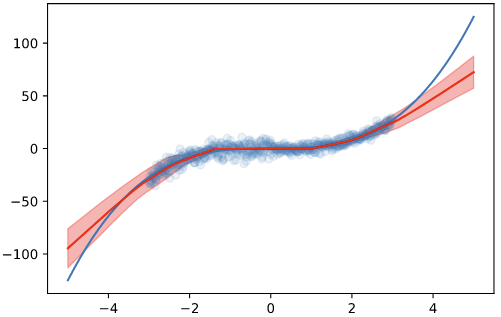
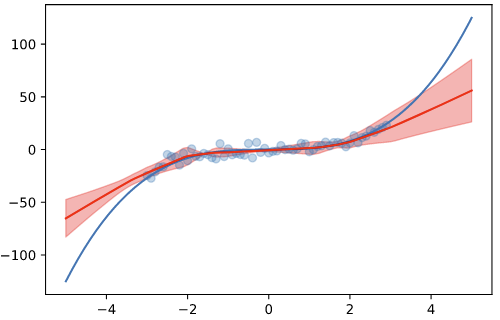
picture added

Changed region(s): [[0.0, 0.0, 0.99, 0.9937], [0.9, 0.0852, 0.93, 0.1703]]

diff --git a/_sass/base/backup_var.scss b/_sass/base/backup_var.scss
@@ -1,8 +1,8 @@
 // Google Fonts
-@import url(//fonts.googleapis.com/css?family=Consolas:400,700,300|Roboto+Slab:400,700,300|Roboto:400,700,300|Open+Sans:300italic,400italic,600italic,700italic,800italic,400,800,700,600,300);
+@import url(//fonts.googleapis.com/css?family=Roboto+Slab:400,700,300|Roboto:400,700,300|Open+Sans:300italic,400italic,600italic,700italic,800italic,400,800,700,600,300);
 
 // Typography
-$base-font-family: "Consolas", "Open Sans", "Helvetica Neue", "Helvetica", "Roboto", "Arial", sans-serif; // $helvetica;
+$base-font-family: "Open Sans", "Helvetica Neue", "Helvetica", "Roboto", "Arial", sans-serif; // $helvetica;
 $heading-font-family: "Roboto Slab", "Helvetica Neue", "Helvetica", "Arial", sans-serif; // $base-font-family;
 
 // Font Sizes

diff --git a/_posts/2020-12-06-deep_ensemble.md b/_posts/2020-12-06-deep_ensemble.md
@@ -12,13 +12,12 @@ tags: deeplearning
 
 
 # Overview
-신경망(Neural Networks)는 학습을 수행함에 따라 우리가 원하는 결과를 다양한 형태로 반환합니다. MNIST의 숫자 이미지 분류 문제라면 각 숫자일 확률값을 내뱉을 것이고, 몸무게에 따른 키의 예측 문제라면 예측되는 키를 내뱉을 것입니다. 하지만 신경망에 의한 예측은 기본적으로 불확실합니다. 적합된 모델과 파라미터를 가지고 아웃풋의 확률 분포를 최대한 모사하지만 그 값이 정확히 우리가 원하는 값과 일치할 수는 없습니다. 불확실성은 현실적으로 모델과 공존하는 그림자와 같은 존재이기에 얼마나 정확히 그것을 측정할 수 있는지가 중요합니다. 자율주행을 예로 들면, 현재 앞에 보이는 것이 차가 지나갈 수 있는 도로인지에 대한 예측 결과에 대해 불확실성이 높게 측정된다면, 운전자에게 운전 주체를 전환하는 기능이 잘 작동할 수 있고, 이는 사고로 이어질 가능성을 최소화 하는 데에 좋은 방안이 될 수 있습니다. 이러한 관점에서 calibration이 있고, 불확실성(uncertainty)를 측정하기 위한 Bayesian NNs 등의 모델 또한 존재합니다. 하지만 본 논문에서 Bayesian NNs의 단점으로 복잡도가 높고, 사전확률분포에 대한 의존도가 높다는 점 등을 꼽습니다. 그러한 면에서 저자들은 non-Bayesian NNs이자 좀 더 general한 불확실성 측정 모델을 고민했다고 합니다.
+신경망(Neural Networks)는 학습을 수행함에 따라 우리가 원하는 결과를 다양한 형태로 반환합니다. MNIST의 숫자 이미지 분류 문제라면 각 숫자일 확률값을 내뱉을 것이고, 몸무게에 따른 키의 예측 문제라면 예측되는 키를 내뱉을 것입니다. 하지만 신경망에 의한 예측은 기본적으로 불확실합니다. 적합된 모델과 파라미터를 가지고 아웃풋의 확률 분포를 최대한 모사하지만 그 값이 정확히 우리가 원하는 값과 일치할 수는 없습니다.<br>
+
+불확실성은 현실적으로 모델과 공존하는 그림자와 같은 존재이기에 얼마나 정확히 그것을 측정할 수 있는지가 중요합니다. 자율주행을 예로 들면, 현재 앞에 보이는 것이 차가 지나갈 수 있는 도로인지에 대한 예측 결과에 대해 불확실성이 높게 측정된다면, 운전자에게 운전 주체를 전환하는 기능이 잘 작동할 수 있고, 이는 사고로 이어질 가능성을 최소화 하는 데에 좋은 방안이 될 수 있습니다. 이러한 관점에서 calibration이 있고, 불확실성(uncertainty)를 측정하기 위한 Bayesian NNs 등의 모델 또한 존재합니다. 하지만 본 논문에서 Bayesian NNs의 단점으로 복잡도가 높고, 사전확률분포에 대한 의존도가 높다는 점 등을 꼽습니다. 그러한 면에서 저자들은 non-Bayesian NNs이자 좀 더 general한 불확실성 측정 모델을 고민했다고 합니다.
 
 # Bayesian NNs
-간단하게 말해, 신경망의 각 hidden layer의 결과값을 deterministic한 값이 아닌 stochastic, probabilistic한 값을 뱉도록 하는 방법론입니다. MC dropout 등이 대표적입니다.
-https://sanjaykthakur.com/2018/12/05/the-very-basics-of-bayesian-neural-networks/<br>
-
-
+간단하게 말해, 신경망의 각 hidden layer의 결과값을 deterministic한 값이 아닌 stochastic, probabilistic한 값을 뱉도록 하는 방법론입니다. MC dropout 등이 대표적입니다.<br>
 
 # Deep Ensembles
 우선 $$N$$개의 i.i.d.한 데이터 $$D=\{x_n, y_n\}^N_{n=1}$$를 포함하는 데이터셋 $$D$$를 생각해 보면, 분류 문제에 있어서 레이블 $$y$$는 $$K$$개의 값 {1, 2, ..., k} 중 하나의 예측값을 갖게 됩니다. 만일 Regression 문제라면 레이블 $$y$$는 실수 예측값이 됩니다. 이 때 파라미터 $$\theta$$를 갖는 신경망 모형을 적합하면 이는 레이블에 대한 y값의 확률적 예측 분포, 즉 $$p_\theta(y|x)$$를 모델링하게 됩니다. 이러한 상황에서 저자들은 아래와 같은 세 가지를 제시합니다.
@@ -26,19 +25,27 @@ https://sanjaykthakur.com/2018/12/05/the-very-basics-of-bayesian-neural-networks
 > (2) 적대적 학습(adversarial training)을 통해 예측의 분포를 스무딩한다.<br>
 > (3) 앙상블 모형을 학습한다.<br><br>
 
-## Proper Scoring Rules
+### (1) Proper Scoring Rules
 앞서 말씀드렸듯이 불확실성을 측정하는 방법론 또한 정교해야 합니다. 이 때 필요한 scoring rule은 예측 분포인 $$p_\theta(y\mid x)$$에 대해 점수를 부여하게 되고, 더욱 calibrated된 예측이 그렇지 않은 예측에 비해 높은 점수를 받게 합니다. 만일 score를 $$S(p_\theta, (y, x))$$로 표현한다면 이는 어떠한 사건 $$y\mid x \sim q(y\mid x)$$에 관한 예측 분포 $$p_\theta(y\mid x)$$를 평가하는 함수가 됩니다. 그 기댓값은 $$S(p_\theta, q)$$가 되고, 이 때 "좋은 scoring rule'이 되려면 오직 $$p_\theta(y\mid x) = q(y\mid x)$$일 때 등식이 성립하는 $$S(p_\theta,q)\leq$$의 부등식을 만족해야 합니다. 이 때 비로소 loss인 $$L(\theta)=-S(p_\theta,q)$$를 최소화 함으로써 예측의 불확실성을 보정(calibration)할 수 있는 신경망을 학습할 수 있게 됩니다.<br>
 
 하지만 사실 우리가 보통 신경망 모델을 학습할 때 사용하는 손실함수가 proper scoring rule이 됩니다. 예를 들어 흔히 쓰이는 maxmizing log likelihood를 살펴보면 Gibbs 부등식에 의해 $$E_{q(x)}logq(y\mid x)logp_{\theta}(y\mid x)\leq E_{q(x)}logq(y\mid x)logq(y\mid x)(y\mid x)$$가 성립하기 때문에 우리가 사용하고자 하는 scoring rule의 하나가 될 수 있습니다.<br>
 
+실험에서 보여드리겠지만, 본 논문에서 목적을 위해 선택하는 손실함수는 Negative Log-likelihood(NLL)입니다. 흔히 회귀에서 사용하는 MSE의 경우 predictive uncertatinty(variance)를 구할 수 없는 scoring rule인 반면, NLL은 
+
+### (2) Adversarial Training
+적대적 훈련(adversarial training)은 간단하게 말하면 기존에 예측/분류되던 결과와 다른 결과를 뱉도록 하는 $$x'$$를 훈련 데이터에 포함시켜 학습시키는 것을 의미합니다. 기존보다 loss를 크게 하는 방향으로 학습이 진행되므로 예측 분포가 좀 더 넓은 공간에 위치하게 되는 smoothing 효과를 가져오고, 이는 곧 모델이 더욱 robust하게 됨을 의미합니다. 본 논문에서는 이러한 adversarial training을 사용함으로써 전반적으로 더 나은 uncertainty prediction을 이끌어 냈다고 합니다.
+
+### (3) Ensemble
+흔히 아는 Random Forest 모형이 앙상블 기법의 대표적인 모형이라고 할 수 있습니다. 사실 요즘 각종 대회에서 수상하는 모형은 거의 다 앙상블 모형이라고 해도 과언이 아닐 만큼 많이 쓰이기도 합니다. 본 논문에서는 앙상블 중에서도 randomization 기법을 사용했는데, bagging이 대표적입니다. Bagging은 bootstrapping을 통해 다양한 학습 데이터셋을 생성하여 각각에 대한 예측을 수행한 후 그들을 평균내는 방법을 사용합니다. 다른 방법론인 Booosting은 약한 모델(weak model)을 여럿 합침으로써 예측력을 대폭 높인다고 할 수 있습니다. 즉 앙상블 기법을 통해 기존 NN 모델의 예측, 분류 등의 성능을 높일 수 있는 것은 모두 아는 사실이지만, 저자들은 이러한 앙상블 기법이 양질의 uncertainty를 측정하는 데에도 도움이 된다고 설명합니다.
+
+---
 
 # Experiments
 
-## With MSE Loss
+### (1) With MSE Loss
 우선 MSE Loss를 사용하는 기본적인 신경망은 아래와 같이 구현할 수 있습니다.<br>
 
 ```python
-
 class SingleNet(nn.Module):
     def __init__(self):
         super(SingleNet, self).__init__()
@@ -60,7 +67,6 @@ class SingleNet(nn.Module):
         x = self.layer2(x)
         return x
 
-
 singlenet = SingleNet()
 mse_loss = nn.MSELoss()
 optimizer = optim.Adam(singlenet.parameters(), lr = 0.1)
@@ -69,9 +75,9 @@ optimizer = optim.Adam(singlenet.parameters(), lr = 0.1)
 
 ![image](/assets/assets_post/2020-12-06-deep_ensemble/singlenn_result1.png)<br>
 
-플롯에서 보이듯이, 학습 데이터가 모여있는 곳에서는 실제 ground truth와 거의 동일한 수준의 예측값을 뱉고 있으나, 학습 데이터 외의 공간($$x \in [-\inf,-3)\cup(3,\inf]$$)에서는 점점 ground truth와 멀어지는 것을 확인할 수 있습니다. 하지만 단순한 신경망에 MSE Loss를 사용하는 것으로는 우리가 원하는 uncertainty를 얻기가 힘듭니다. 따라서 논문에서 제안한대로 MSE가 아닌 Negative Log-likelihood(NLL)을 손실함수로 하는 모델을 아래와 같이 적합할 수 있습니다. 아까 적합한 모델과는 다르게, 신경망의 결과값이 1개의 스칼라 값이 아닌 mu, sigma의 두가지 스칼라 값이 됩니다.<br>
+플롯에서 보이듯이, 학습 데이터가 모여있는 곳에서는 실제 ground truth와 거의 동일한 수준의 예측값을 뱉고 있으나, 학습 데이터 외의 공간($$x \in [-\inf,-3)\cup(3,\inf]$$)에서는 점점 ground truth와 멀어지는 것을 확인할 수 있습니다. 하지만 앞서 말씀드렸듯이 MSE Loss를 사용하는 것으로는 우리가 원하는 uncertainty를 얻기가 힘듭니다. 따라서 논문에서 제안한대로 MSE가 아닌 Negative Log-likelihood(NLL)을 손실함수로 하는 모델을 아래와 같이 적합할 수 있습니다. 아까 적합한 모델과는 다르게, 신경망의 결과값이 1개의 스칼라 값이 아닌 mu, sigma의 두가지 스칼라 값이 됩니다.<br>
 
-## With NLL Loss
+### (2) With NLL Loss
 ```python
 class SingleNet(nn.Module):
     def __init__(self):
@@ -100,11 +106,9 @@ def nll_loss(mu, sigma, labels):
     loss += torch.mean(torch.log(sigma))
     return loss
 
-mse_loss = nn.MSELoss()
 singlenet = SingleNet()
 softplus = nn.Softplus()
 optimizer = optim.Adam(singlenet.parameters(), lr = 0.1)
-
 
 # Hyper-params
 epochs = 100
@@ -137,11 +141,96 @@ for epoch in range(epochs):
 ```
 그리고 위 모형으로 적합된 결과를 동일한 방법으로 그린 플롯은 아래와 같습니다.<br>
 ![image](/assets/assets_post/2020-12-06-deep_ensemble/single_nll_result1.png)<br>
-훈련에 사용된 데이터가 있는 구간에서는 굉장히 낮은 uncertainty를 보이지만 훈련 데이터를 벗어나는 구간부터(-3, 3) 높은 uncertainty를 보이고 있음을 확인할 수 있습니다. 즉 논문에서 제안한 대로 Negative Log-likelihood를 "proper score rule"로 설정 및 손실함수로 이용함으로써, 우리는 신경망 모델로 하여금 uncertainty를 적절하게 측정할 수 있도록 학습하게 되는 것입니다.<br>
+훈련에 사용된 데이터가 있는 구간에서는 굉장히 낮은 uncertainty를 보이지만 훈련 데이터를 벗어나는 구간부터(-3, 3) 어느 정도의 uncertainty를 보이고 있음을 확인할 수 있습니다. 즉 논문에서 제안한 대로 Negative Log-likelihood를 "proper score rule"로 설정 및 손실함수로 이용함으로써, 우리는 신경망 모델로 하여금 uncertainty를 적절하게 측정할 수 있도록 학습하게 되는 것입니다. 다만 아직도 적절한 분포가 추정이 되었다고 보기는 힘듭니다.<br>
 
+### (3) NLL Loss + Ensemble
+최종적으로는 NLL Loss를 활용한 앙상블 모형을 구축하여 uncertainty를 측정할 수 있습니다. 코드는 아래와 같습니다.
+
+```python
+def load_ensemble(N):
+    all_nets = []
+    for i in range(N):
+        weaknet = SingleNet()
+        optimizer = optim.Adam(weaknet.parameters(), lr = 0.1)
+        all_nets.append((weaknet, optimizer))
+    return all_nets
+
+def train_ensemble(net, optimizer, dataset, epochs):
+    epochs = epochs
+    single_net = net
+    optimizer = optimizer
+
+    losses = []
+
+    for epoch in range(epochs):
+
+        batch_loss = 0
+        for i, (x, y) in enumerate(data_loader):
+
+            inputs = torch.unsqueeze(x, 1)
+            labels = torch.unsqueeze(y, 1)
+
+            optimizer.zero_grad()
+
+            outputs = singlenet(inputs)
+            mu, sigma = singlenet(inputs)
+            
+            loss = nll_loss(mu, sigma, labels)
+            loss.backward()
+            optimizer.step()
+
+            batch_loss += loss.item()
+
+        losses.append(batch_loss/len(data_loader))
+
+    return single_net
+
+
+
+ensemble_nets = load_ensemble(5)
+trained_nets = []
+for a_net in tqdm(ensemble_nets, desc = "Training single models"):
+    net_ = a_net[0]
+    opt_ = a_net[1]
+
+    trained_net = train_ensemble(net_, opt_, data_loader, epochs = 2000)
+    trained_nets.append(trained_net)
+
+
+predictions_mu = []
+predictions_sigma = []
+for net in trained_nets:
+    net.eval()
+    
+    x_for_plot = np.linspace(-4, 4, 400)
+    y_for_plot = [np.power(x_, 3) for x_ in x_for_plot]
+
+    pred_mu = list(map(lambda r: r.detach().numpy(), [singlenet(torch.tensor([x]))[0] for x in x_for_plot]))
+    pred_sigma = list(map(lambda r: np.sqrt(r.detach().numpy())*3, [singlenet(torch.tensor([x]))[1] for x in x_for_plot]))
+    
+    pred_mu = np.array(pred_mu).reshape(-1)
+    pred_sigma = np.array(pred_sigma).reshape(-1)
+    
+    predictions_mu.append(pred_mu)
+    predictions_sigma.append(pred_sigma)
+
+# MU
+ensem_mus = np.vstack(predictions_mu)
+ensem_nll_mean = np.mean(ensem_mus, axis = 0)
+
+# Sigma
+ensem_sigma = np.vstack(predictions_sigma)
+
+# Final values
+var_fin = np.mean(np.power(ensem_mus, 2) + ensem_sigma, axis = 0) - np.power(ensem_nll_mean, 2)
+sig_fin = np.sqrt(var_fin)*3
+```
+
+![image](/assets/assets_post/2020-12-06-deep_ensemble/ensemble_nll_result1.png)<br>
+적합 결과를 통해, single NN(with NLL)을 적합했을 때보다 훈련 데이터 바깥 쪽의 공간에서 패턴을 더 잘 설명하고 있는 것 뿐 아니라, uncertainty 또한 잘 설명하고 있음을 확인할 수 있습니다.
 
 
 # Conclusions
-오늘 소개드린 논문 \<Simple and Scalable Predictive Uncertainty Estimation using Deep Ensembles\>는 신경망 모형의 불확실성을 구하는 데에 기존 Bayesian 방법론에 비해 좀 더 효율적이고 일반적인 방법론을 제시합니다.
+오늘 소개드린 논문 \<Simple and Scalable Predictive Uncertainty Estimation using Deep Ensembles\>는 신경망 모형의 불확실성을 구하는 데에 기존 Bayesian 방법론에 비해 좀 더 효율적이고 일반적인 방법론을 제시합니다. 불확실성에 대한 정확한 측정은 신경망의 정확성 추구 외에 꼭 수행해야 할 필수적인 요소라고 생각하기에, 관련한 논문을 더욱 찾아보고 공부할 계획입니다.<br>
 
 긴 포스팅 읽어주셔서 너무나 감사합니다. 배울 것이 많은 학생이라 제가 해석한 내용 중 틀린 부분이나 보완이 필요한 부분이 있을 수 있습니다. 가르침 주시기 위한 피드백은 언제나 환영입니다.<br><br><br>
